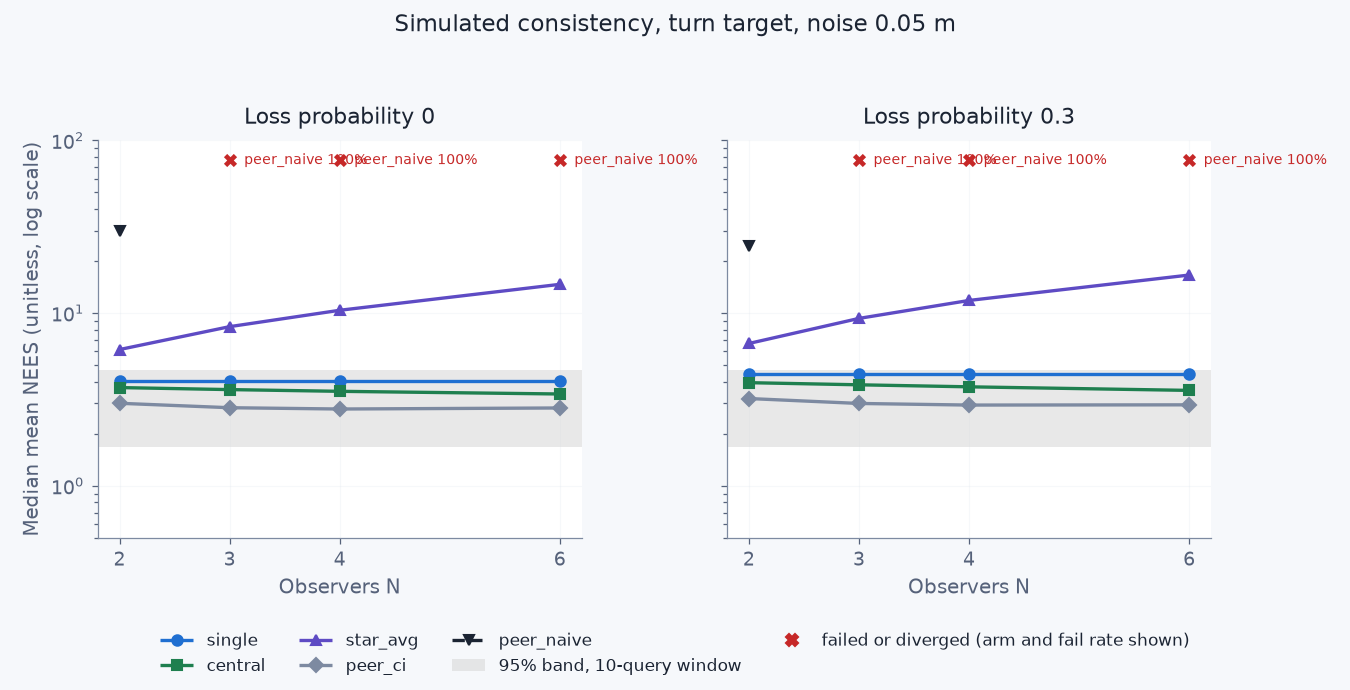
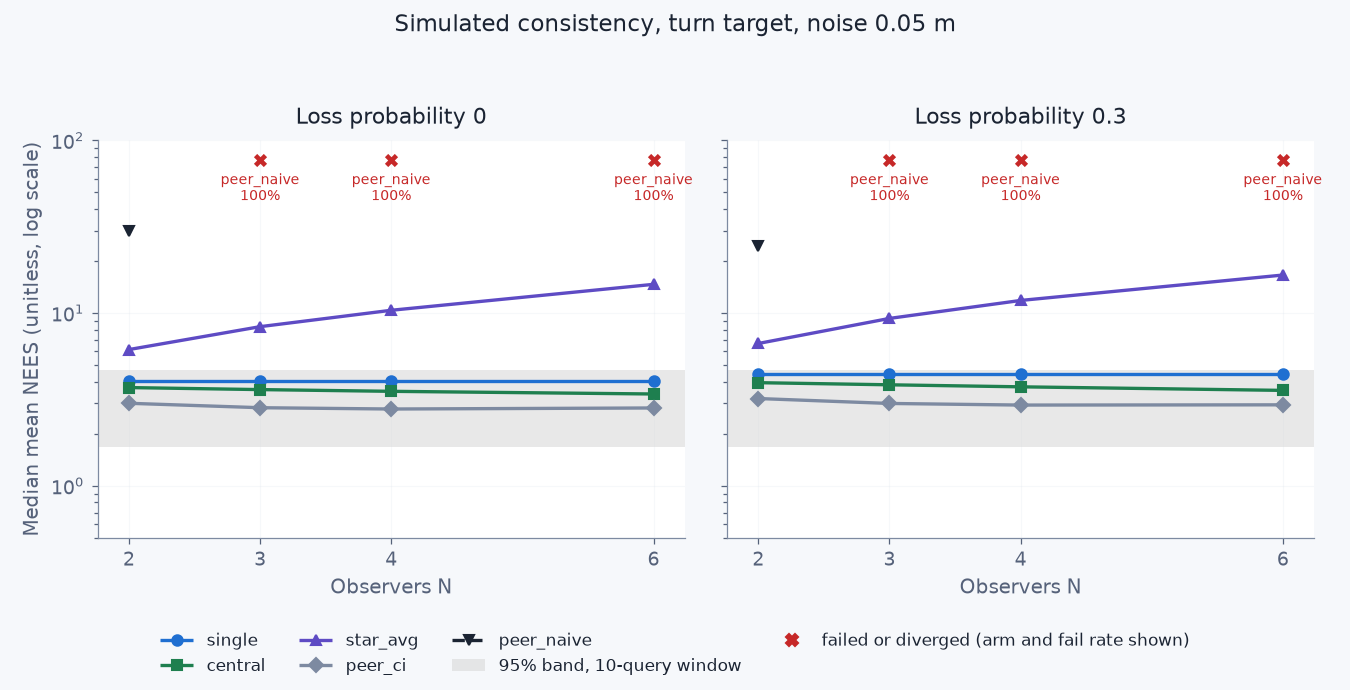
Stack fusion failure labels under their markers so they no longer overlap

diff --git a/tools/d_make_fusion_figure.py b/tools/d_make_fusion_figure.py
@@ -42,18 +42,25 @@ def _line_values(selected, key, scale=1.0):
 def _mark_failures(axis, failures, colour):
     """Draw alert X markers along the top edge, labelled with the fail rate.
 
-    failures maps N to a list of (arm, fail rate); several arms failing at the
-    same N are stacked downwards from the top edge.
+    failures maps N to a list of (arm, fail rate). Each label is centred under
+    its marker on two lines (arm, then rate) so neighbouring Ns never collide;
+    several arms failing at the same N are stacked downwards from the top edge.
     """
     transform = axis.get_xaxis_transform()
     for x, items in failures.items():
         for slot, (arm, rate) in enumerate(items):
-            y = 0.95 - 0.07 * slot
+            y = 0.95 - 0.13 * slot
             axis.scatter([x], [y], color=colour, marker="X", s=40, zorder=5,
                          transform=transform, clip_on=False)
-            axis.annotate(f"{arm} {100.0 * rate:.0f}%", (x, y), xycoords=transform,
-                          xytext=(7, 0), textcoords="offset points", ha="left",
-                          va="center", fontsize=6.5, color=colour)
+            axis.annotate(f"{arm}\n{100.0 * rate:.0f}%", (x, y), xycoords=transform,
+                          xytext=(0, -6), textcoords="offset points", ha="center",
+                          va="top", fontsize=6.5, color=colour, linespacing=1.1)
+
+
+def _pad_x(axis, xticks):
+    """Leave room beside the first and last N so centred labels stay inside."""
+    pad = 0.06 * (max(xticks) - min(xticks))
+    axis.set_xlim(min(xticks) - pad, max(xticks) + pad)
 
 
 def _failed_cells(selected, key):
@@ -123,6 +130,7 @@ def make_figures(directory: Path):
         axis.set_title(target)
         axis.set_xlabel("Observers N")
         axis.set_xticks(xticks)
+        _pad_x(axis, xticks)
         axis.grid(alpha=0.2)
     axes[0][0].set_ylabel("Median p95 error (cm)")
     _legend(figure, axes[0][0], [failure_handle])
@@ -148,6 +156,7 @@ def make_figures(directory: Path):
         axis.set_title(f"Loss probability {loss:g}")
         axis.set_xlabel("Observers N")
         axis.set_xticks(xticks)
+        _pad_x(axis, xticks)
         axis.grid(alpha=0.2)
     axes[0].set_ylabel("Median mean NEES (unitless, log scale)")
     _legend(figure, axes[0], [failure_handle])
